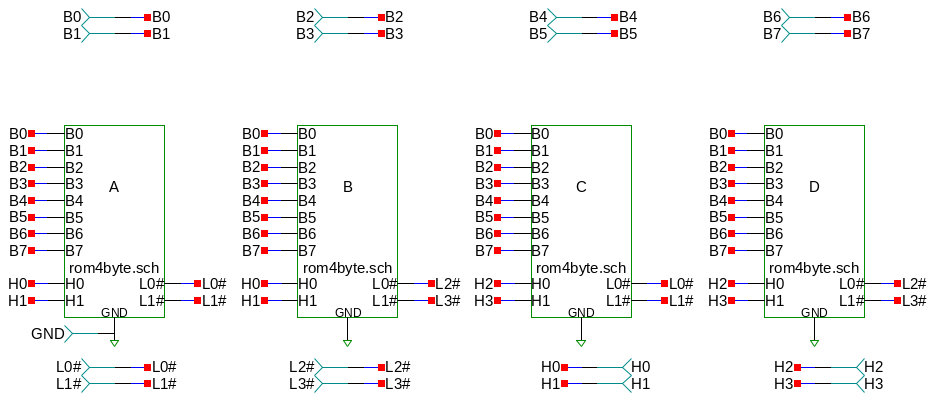
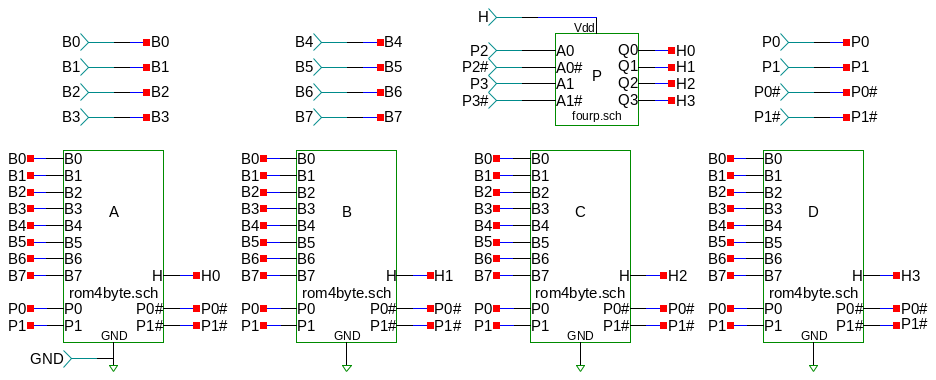
Regen web pages

diff --git a/docs/README.md b/docs/README.md
@@ -10,7 +10,7 @@ It is a pure 8-bit Harvard architecture, with 8-bit code and data addresses, and
 a four entry stack.  There are four general purpose registers, one of which is
 the accumulator.  It uses a 2.5 stage RISC pipeline (opcode fetch/branch,
 instruction execute, and writeback).  There is an integrated dynamic RAM
-controller.  The CPU totals 1336 transistors.  Without the pipelining and DRAM
+controller.  The CPU totals 1348 transistors.  Without the pipelining and DRAM
 refresh the count would be more like 1000.
 
 The instruction set is minimalist but functional.  All instructions are a single
@@ -71,8 +71,8 @@ lines—are driven by CMOS outputs.  PMOS logic is also used, mostly for 1-of-N
 decoder trees.
 
 The overall layout is bit-sliced, with the per-bit circuitry laid out on
-[eight identical boards](bit.md) (132 transistors each), and a
-[separate control board](control.md) (231 transistors).
+[eight identical boards](bit.md) (138 transistors each), and a
+[separate control board](control.md) (244 transistors).
 
 The [bit slice board](bit.md) has the program counter, stack and branch
 logic on the left, and the instruction execute pipe line stage on the right.
@@ -413,7 +413,7 @@ reset always leaves the instruction decode in the correct state, while in reset,
 the decode is modified so that the jump to zero takes place on every clock
 cycle.
 
-The above takes two transistors to implement.  We also latch the reset to
+The above takes three transistors to implement.  We also latch the reset to
 synchronise with the clock, which takes several more.
 
 

diff --git a/docs/control.md b/docs/control.md
@@ -12,8 +12,7 @@
 [ ![nor1and](nor1and-sym.png) ](nor1and.html)
 [ ![seli](seli-sym.png) ](seli.html)
 [ ![fourpd](fourpd-sym.png) ](fourpd.html)
-[ ![decoder](decoder-sym.png) ](decoder.html)
-[ ![notp](notp-sym.png) ](notp.html)
 [ ![noverlap](noverlap-sym.png) ](noverlap.html)
 [ ![cnot](cnot-sym.png) ](cnot.html)
 [ ![diplatch](diplatch-sym.png) ](diplatch.html)
+[ ![fiveof8](fiveof8-sym.png) ](fiveof8.html)

diff --git a/docs/univlight.md b/docs/univlight.md
@@ -4,5 +4,5 @@
 [ ![rom64byte](rom64byte-sym.png) ](rom64byte.html)
 [ ![control](control-sym.png) ](control.html)
 [ ![bit](bit-sym.png) ](bit.html)
-[ ![not](not-sym.png) ](not.html)
+[ ![notp](notp-sym.png) ](notp.html)
 [ ![dram64byte](dram64byte-sym.png) ](dram64byte.html)

diff --git a/docs/rom64byte.md b/docs/rom64byte.md
@@ -4,5 +4,4 @@
 [ ![rom16byte](rom16byte-sym.png) ](rom16byte.html)
 [ ![romio](romio-sym.png) ](romio.html)
 [ ![nor3](nor3-sym.png) ](nor3.html)
-[ ![eightn](eightn-sym.png) ](eightn.html)
-[ ![eightp](eightp-sym.png) ](eightp.html)
+[ ![fourp](fourp-sym.png) ](fourp.html)

diff --git a/docs/dram64byte.md b/docs/dram64byte.md
@@ -5,6 +5,4 @@
 [ ![dramio](dramio-sym.png) ](dramio.html)
 [ ![nor3](nor3-sym.png) ](nor3.html)
 [ ![nand3](nand3-sym.png) ](nand3.html)
-[ ![eightn](eightn-sym.png) ](eightn.html)
-[ ![eightp](eightp-sym.png) ](eightp.html)
 [ ![notp](notp-sym.png) ](notp.html)

diff --git a/docs/noverlap.md b/docs/noverlap.md
@@ -1,5 +1,5 @@
 # noverlap.sch schematic
 ![noverlap.sch](noverlap.png)
 # Gates in noverlap.sch
-[ ![not](not-sym.png) ](not.html)
+[ ![notp](notp-sym.png) ](notp.html)
 [ ![cnot](cnot-sym.png) ](cnot.html)

diff --git a/docs/rom16byte.md b/docs/rom16byte.md
@@ -2,3 +2,4 @@
 ![rom16byte.sch](rom16byte.png)
 # Gates in rom16byte.sch
 [ ![rom4byte](rom4byte-sym.png) ](rom4byte.html)
+[ ![fourp](fourp-sym.png) ](fourp.html)

diff --git a/docs/fiveof8.md b/docs/fiveof8.md
@@ -1,0 +1,4 @@
+# fiveof8.sch schematic
+![fiveof8.sch](fiveof8.png)
+# Gates in fiveof8.sch
+[ ![not](not-sym.png) ](not.html)

diff --git a/docs/fourp.md b/docs/fourp.md
@@ -1,0 +1,2 @@
+# fourp.sch schematic
+![fourp.sch](fourp.png)
